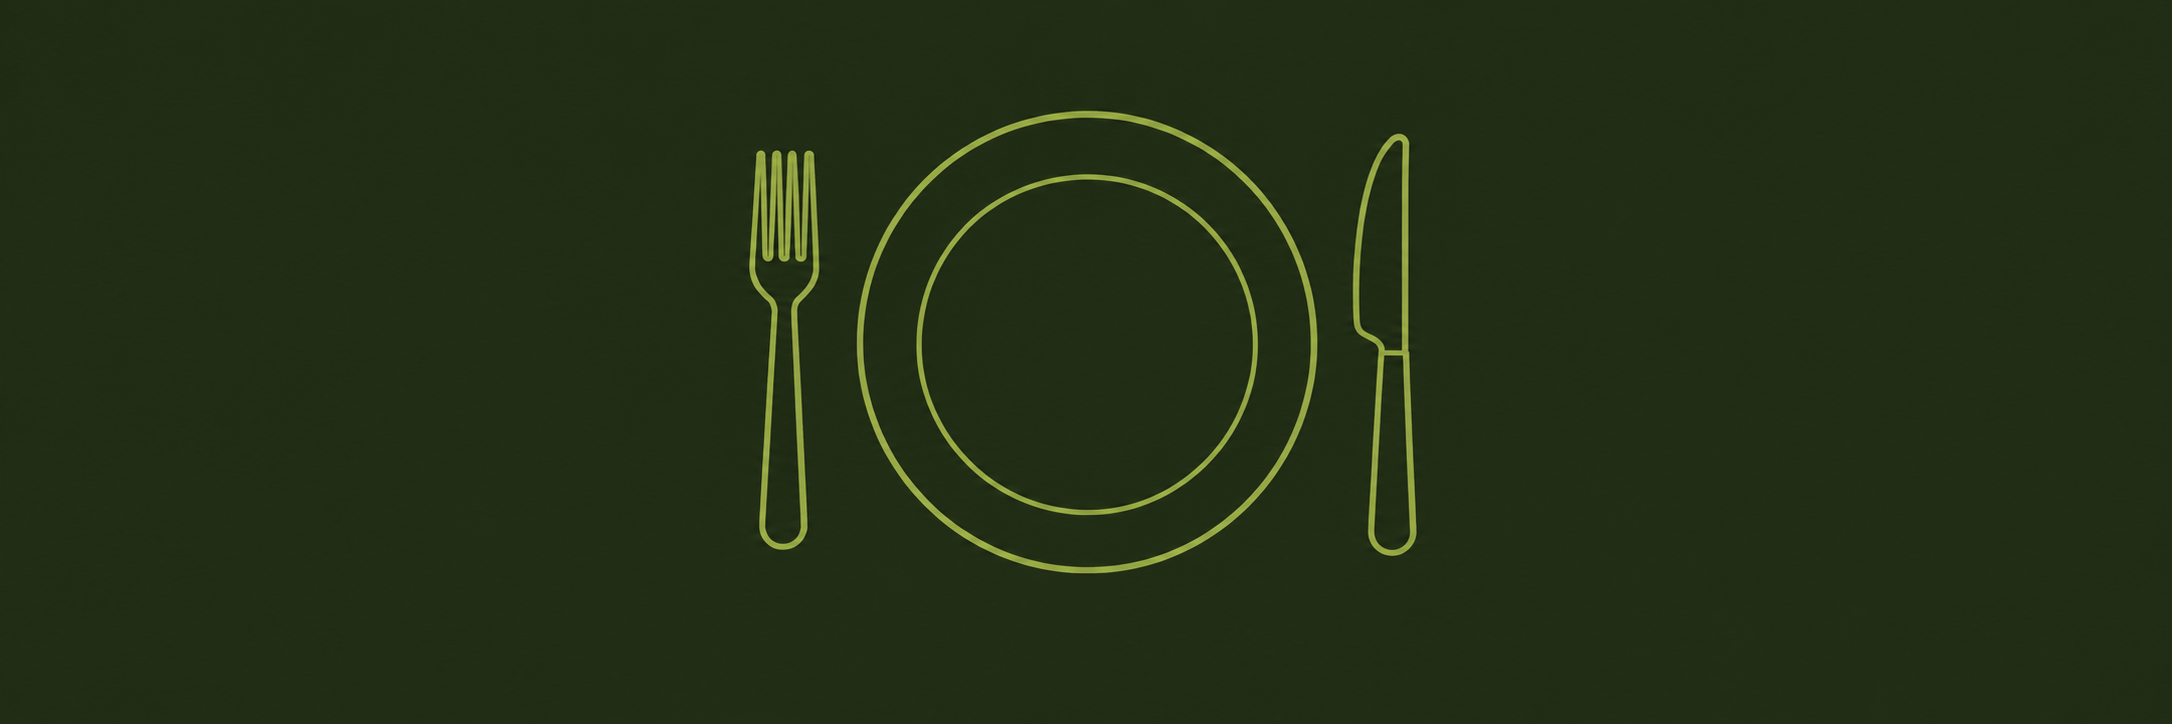
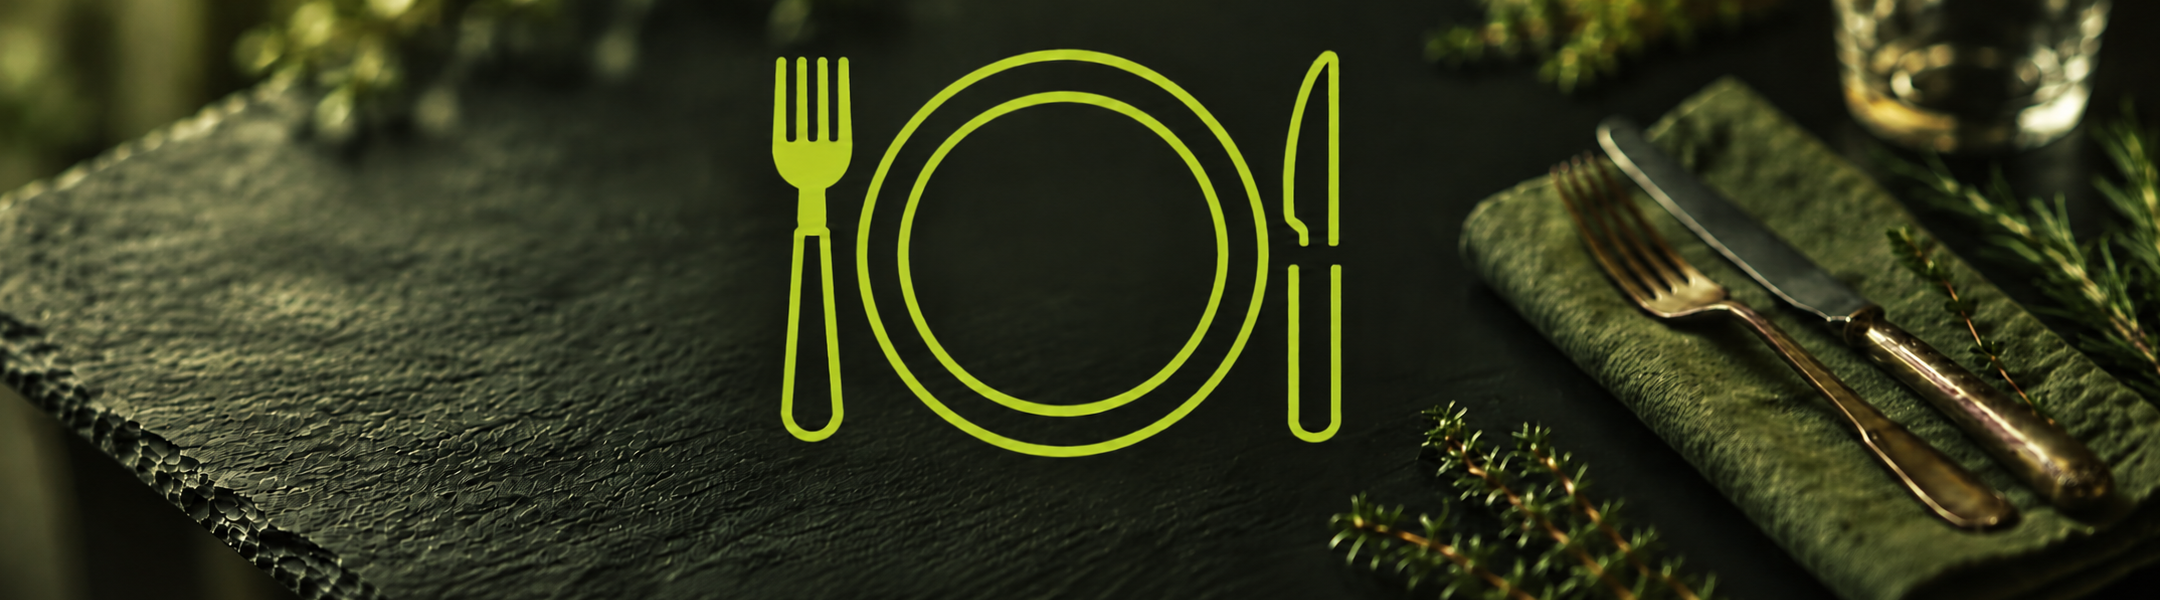
Match placeholder and meal frame aspect ratio

diff --git a/index-restyling.html b/index-restyling.html
@@ -731,8 +731,9 @@ pre{white-space:pre-wrap;word-break:break-word;font-size:0.7rem;color:var(--text
 #view-piano .vertical-rail{position:absolute;z-index:2;top:0;left:0;width:100%;pointer-events:none;will-change:transform;}
 #view-piano .vertical-rail>.track{width:100%;overflow:hidden;scroll-behavior:auto;background:var(--panel);}
 #view-piano .slide{flex:0 0 100%;min-width:0;scroll-snap-align:start;}
-#view-piano .photo-row{height:151px;display:grid;grid-template-columns:minmax(0,1fr) 15%;gap:13px;padding-left:17px;overflow:hidden;}
-#view-piano .photo-row>div{min-width:0;height:100%;}
+#view-piano .photo-row{display:grid;grid-template-columns:minmax(0,1fr) 15%;gap:13px;padding-left:17px;overflow:hidden;}
+#view-piano .photo-row>div{min-width:0;}
+#view-piano .photo-row>div:first-child{aspect-ratio:18/5;}
 #view-piano .photo-main,#view-piano .photo-peek,#view-piano .photo-placeholder{display:block;width:100%;height:100%;object-fit:cover;background:var(--panel-2);}
 #view-piano .photo-main,#view-piano .photo-placeholder{border-radius:14px;}
 #view-piano .photo-peek{border-radius:14px 0 0 14px;}
@@ -830,7 +831,7 @@ pre{white-space:pre-wrap;word-break:break-word;font-size:0.7rem;color:var(--text
   #view-piano .meal-symbol{font-size:1.1875rem;}
   #view-piano .meal-name{font-size:.875rem;letter-spacing:.0125rem;}
   #view-piano .meal-time{font-size:.5625rem;}
-  #view-piano .photo-row{height:82px;gap:7px;padding-left:8px;}
+  #view-piano .photo-row{gap:7px;padding-left:8px;}
   #view-piano .photo-main,#view-piano .photo-placeholder{border-radius:8px;}
   #view-piano .photo-peek{border-radius:8px 0 0 8px;}
   #view-piano .carousel-next{right:12px;top:26px;width:31px;height:31px;font-size:1.375rem;}
